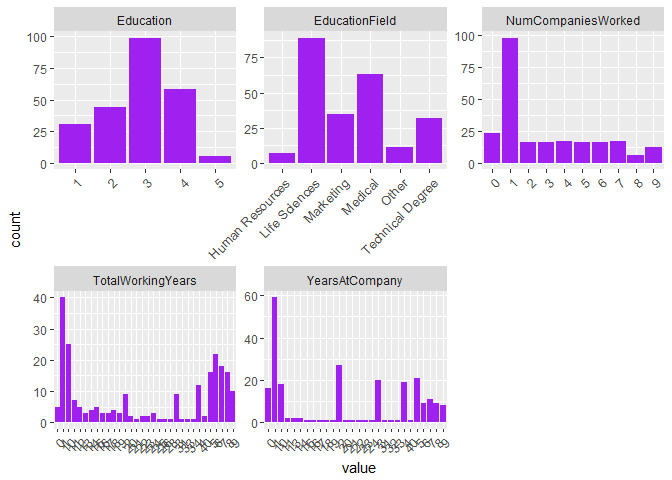
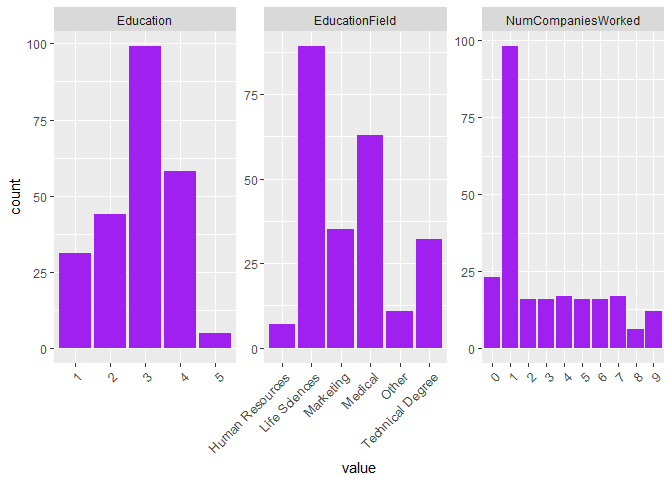
Adjust Univariate 3 histograms

diff --git a/CaseStudy2.md b/CaseStudy2.md
@@ -146,7 +146,7 @@ Univariate 3 - attrition by employee background
 -----------------------------------------------
 
 ``` r
-uni_3_cols <- c("Education", "EducationField", "NumCompaniesWorked", "TotalWorkingYears", "YearsAtCompany")
+uni_3_cols <- c("Education", "EducationField", "NumCompaniesWorked")
 unit3_p1 <- attrition_data[uni_3_cols] %>%
  gather() %>%     
  ggplot(aes(x = value)) +                     
